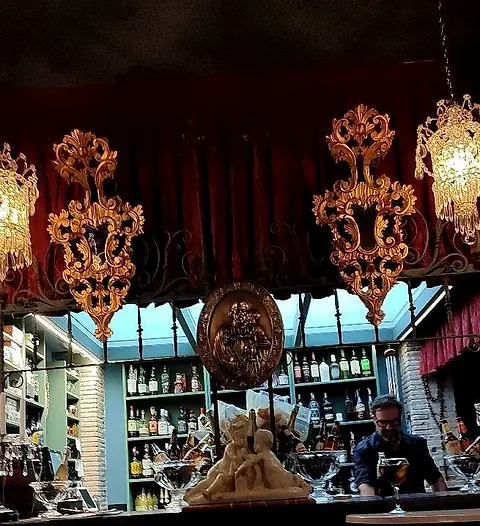
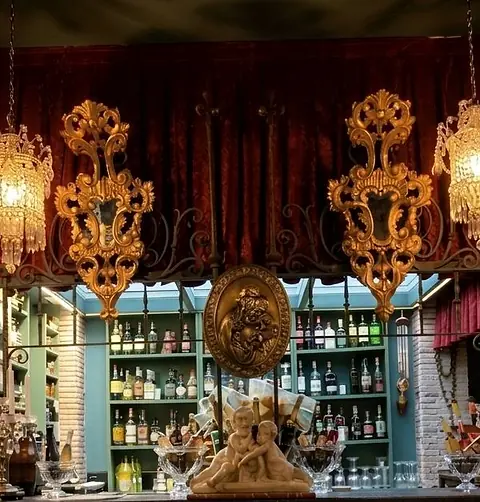
Hero: barra recreada con IA a partir de la foto real
Sin camarero, mejor luz y menos ruido. Recorte en el canto del mostrador
(70 %), etalonaje suave para no sobrecalentarla. Nota del pie (ES/EN) y
fuentes de imágenes actualizadas.

diff --git a/src/index.html b/src/index.html
@@ -525,7 +525,7 @@
     <p class="pie__marca">La Sacristía</p>
     <p class="inscripcion" data-t="pie.inscripcion">Café <i>·</i> Coctelería <i>·</i> Dénia <i>·</i> MMXXI</p>
     <p class="pie__idioma"><a href="en.html" hreflang="en" lang="en" data-ta="href:idioma.href,hreflang:idioma.hreflang,lang:idioma.lang" data-t="pie.idioma">Read in English</a></p>
-    <p class="pie__demo" data-t="pie.demo">Propuesta de diseño web (demo). Fotografías del local tomadas de su Google Maps, TripAdvisor e Instagram; micrófono y velas, provisionales de Unsplash.</p>
+    <p class="pie__demo" data-t="pie.demo">Propuesta de diseño web (demo). Fotografías del local tomadas de su Google Maps, TripAdvisor e Instagram; la barra del inicio, recreada con IA a partir de una de ellas; micrófono y velas, provisionales de Unsplash.</p>
   </footer>
 
   <nav class="barra-movil" aria-label="Acciones rápidas" data-ta="aria-label:ui.barra" data-barra>

diff --git a/docs/image-sources.md b/docs/image-sources.md
@@ -7,7 +7,7 @@ Uso para la demo comercial. **Antes de publicar como web definitiva, confirmar c
 
 | Archivo | Sección | Origen | Notas |
 |---|---|---|---|
-| `hero-barra` / `hero-barra-m` | Hero (contrabarra; escritorio panorámica, móvil vertical) | TripAdvisor, foto "Bello" (`ta-12`), recortada por encima del mostrador | 1311 px de ancho: algo blanda en pantallas grandes. **Prioridad nº 1 de la sesión**: barra frontal y simétrica entre los dos soles, de noche, lámparas encendidas, sin gente, cámara a la altura del tablero. |
+| `hero-barra` / `hero-barra-m` | Hero (contrabarra; escritorio panorámica, móvil vertical) | **Recreada con IA (Gemini)** a partir de la foto real de TripAdvisor "Bello" (`ta-12`): `raw/ia/hero-barra-gemini.jpg`, 1200 × 896. Recortada en el 70 % superior, por encima del mostrador | Provisional. Sin camarero y con mejor luz; la IA inventa el frontal tallado del mostrador, las mesas y unas cartas con texto ilegible, pero todo eso queda fuera del recorte. Solo 1200 px de ancho: un reescalado ×3 (Upscayl o Gemini) la dejaría nítida en pantallas grandes. **Prioridad nº 1 de la sesión**: barra frontal y simétrica entre los dos soles, de noche, lámparas encendidas, sin gente, cámara a la altura del tablero. |
 | (`raw/real/maps-6.jpg`, salón del baldaquino) | Imagen para compartir (OG) | Google Maps (ficha del local) | La mejor foto del local. |
 | `altar-inmaculada` | Inventario II | Google Maps | |
 | `barra-querubin` | Inventario V | Google Maps | |

diff --git a/docs/qa-report.md b/docs/qa-report.md
@@ -71,3 +71,6 @@ Cajones del mostrador, ficha técnica, misal con cintas, tablón parroquial (con
 - 0 errores de consola.
 - La página en móvil mide ≈ 14.000 px (antes 12.461): el misal, el tablón y el libro ocupan más que los bloques a los que sustituyen.
 - Publicado y verificado en https://alexsivera.github.io/la-sacristia-denia/ y …/en.html (390 y 1440 px): 3 cajones, 5 cintas, tablón con fecha («Hoy, jueves, 5 de noviembre» / «Tonight, Thursday 5 November»), 6 firmas, ficha en vivo, selector de idioma, 3 fuentes, 0 imágenes rotas, sin scroll horizontal, 0 errores de consola y 0 respuestas ≥ 400. Las láminas de las páginas ocultas del misal no se descargan hasta tirar de su cinta (carga diferida).
+
+## Hero con la barra recreada con IA — 05/11/2026
+La contrabarra pasa a la versión de Gemini (`raw/ia/hero-barra-gemini.jpg`, 1200 × 896), recortada en el 70 % superior, donde cae el canto del mostrador. Medida de nitidez (varianza del laplaciano a 1440 px): original 1223, Gemini 225; la de Gemini tiene menos detalle fino pero mucho menos ruido, mejor luz y sin camarero. Comprobado en local a 320, 390 y 1440 px: el móvil carga `hero-barra-m`, el escritorio `hero-barra-1200`, sin scroll horizontal y sin errores. Nota del pie actualizada en ES y EN.
